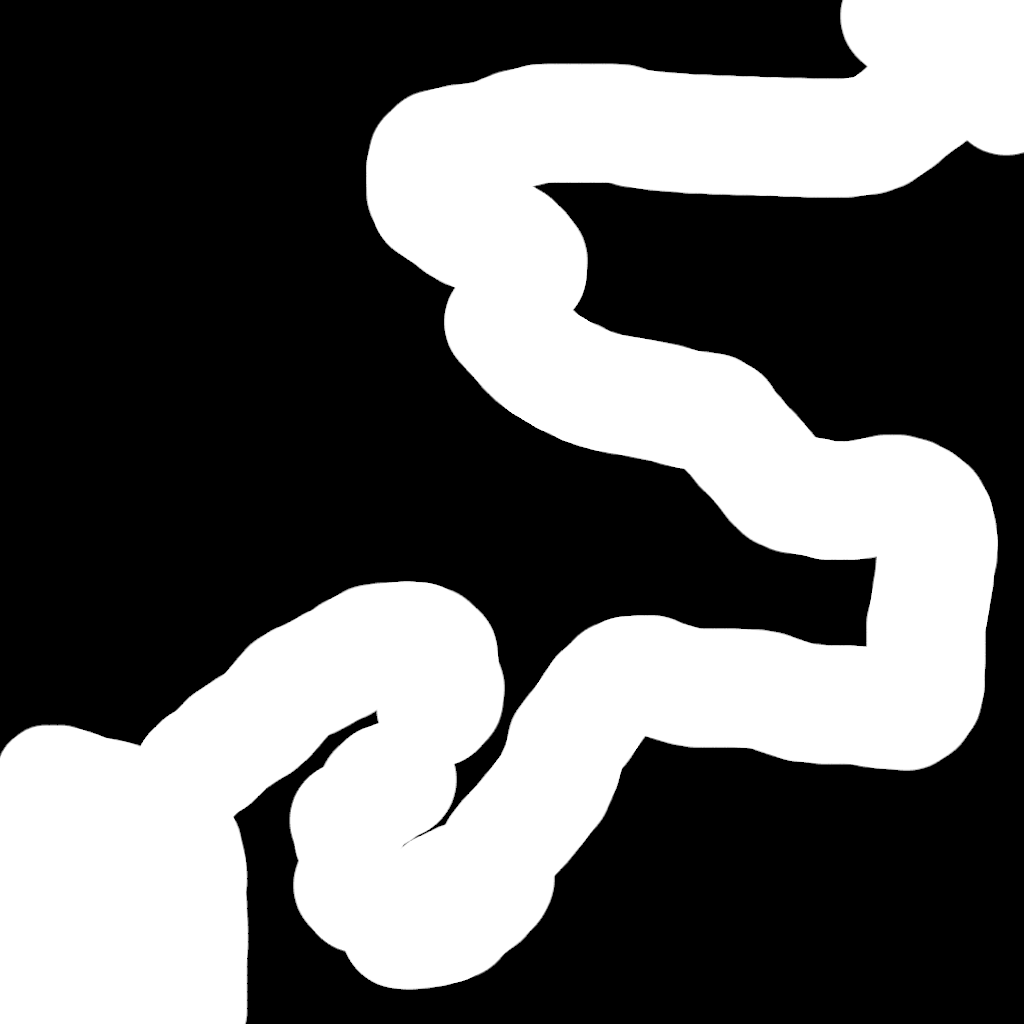
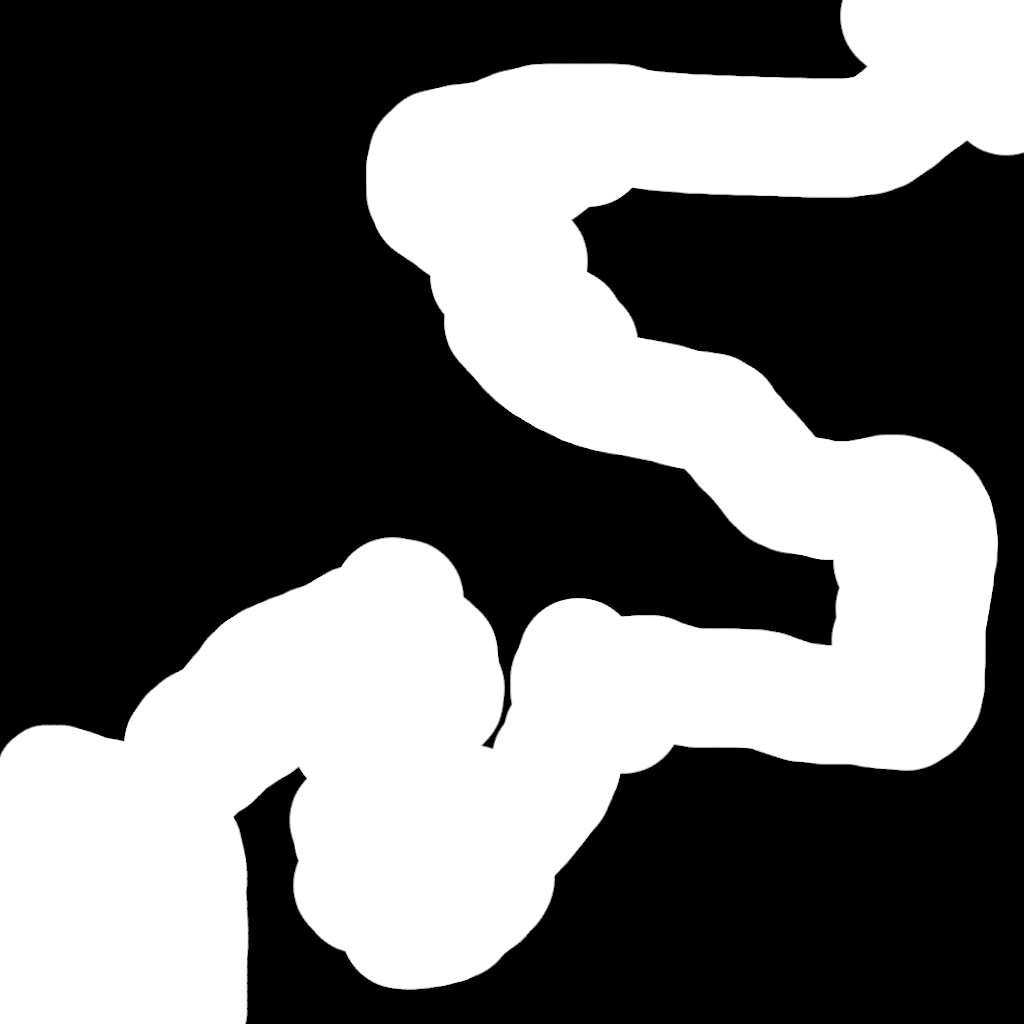
Add files via upload

diff --git a/script.js b/script.js
@@ -54,8 +54,17 @@ let player = {
     movingRight: false,
 };
 
+const WIN_ZONE = {
+    x: 500 - 100,   // left edge of win zone (pixels)
+    y: 0,                   // top edge
+    width: 100,             // width of the zone
+    height: 100,            // height of the zone
+};
+
 let isMoving = false;          // true when a movement key is held (or step queued)
 let animationId = null;
+
+let gameWon = false;
 
 // ─── WALL MAP LOADING ──────────────────────────────────────────────────────
 
@@ -79,6 +88,26 @@ function loadWallMap(img, canvasWidth, canvasHeight) {
 }
 
 // ─── COLLISION DETECTION ──────────────────────────────────────────────────
+
+function isInWinZone(cx, cy, w, h) {
+    const halfW = w / 2;
+    const halfH = h / 2;
+    // Player's bounding box (top‑left, bottom‑right)
+    const left = cx - halfW;
+    const right = cx + halfW;
+    const top = cy - halfH;
+    const bottom = cy + halfH;
+
+    // Win zone edges
+    const winLeft = WIN_ZONE.x;
+    const winRight = WIN_ZONE.x + WIN_ZONE.width;
+    const winTop = WIN_ZONE.y;
+    const winBottom = WIN_ZONE.y + WIN_ZONE.height;
+
+    // Overlap check (AABB collision)
+    return (left < winRight && right > winLeft &&
+            top < winBottom && bottom > winTop);
+}
 
 /**
  * Check if a given pixel (x, y) is a wall.
@@ -208,33 +237,44 @@ function renderLoop() {
  * Update game state: apply movement if possible.
  */
 function update() {
+    // 1. Determine intended movement from held keys/buttons
     let dx = 0, dy = 0;
     if (player.movingUp)    dy -= STEP_SIZE;
     if (player.movingDown)  dy += STEP_SIZE;
     if (player.movingLeft)  dx -= STEP_SIZE;
     if (player.movingRight) dx += STEP_SIZE;
 
-    if (dx === 0 && dy === 0) return; // no movement
+    if (dx === 0 && dy === 0) return;
 
-    const newCx = player.cx + dx;
-    const newCy = player.cy + dy;
-
-    // Clamp center to keep the sprite inside the canvas
-    const halfW = player.width/2;
-    const halfH = player.height/2;
+    // 2. Clamp to canvas edges (so the sprite never goes outside)
+    const halfW = player.width / 2;
+    const halfH = player.height / 2;
     const maxX = canvas.width - halfW;
     const maxY = canvas.height - halfH;
-    const clampedX = Math.min(Math.max(newCx, halfW), maxX);
-    const clampedY = Math.min(Math.max(newCy, halfH), maxY);
 
-    if (!collidesWithWall(clampedX, clampedY, player.width, player.height)) {
-        player.cx = clampedX;
-        player.cy = clampedY;
+    // 3. Try moving horizontally first (X axis)
+    let newCx = player.cx + dx;
+    newCx = Math.min(Math.max(newCx, halfW), maxX);
+    if (!collidesWithWall(newCx, player.cy, player.width, player.height)) {
+        player.cx = newCx;
     } else {
-        // Wall hit – call your placeholder and optionally try sliding
-        onWallHit(clampedX, clampedY, dx, dy);
-        // To allow sliding, you can try moving only X or only Y separately
-        // (similar to earlier sliding logic)
+        // X blocked – call placeholder, but we'll still try Y
+        onWallHit(newCx, player.cy, dx, 0);
+    }
+
+    // 4. Then try moving vertically (Y axis)
+    let newCy = player.cy + dy;
+    newCy = Math.min(Math.max(newCy, halfH), maxY);
+    if (!collidesWithWall(player.cx, newCy, player.width, player.height)) {
+        player.cy = newCy;
+    } else {
+        // Y blocked – call placeholder
+        onWallHit(player.cx, newCy, 0, dy);
+    }
+
+    // 5. (Optional) Win detection
+    if (!gameWon && isInWinZone(player.cx, player.cy, player.width, player.height)) {
+        onWin();
     }
 }
 
@@ -280,13 +320,23 @@ function render() {
  */
 function onWallHit(newX, newY, dx, dy) {
     // ─── INSERT YOUR CUSTOM LOGIC HERE ──────────────────────────────
-    console.log(`Wall hit at (${newX}, ${newY}) moving (${dx}, ${dy})`);
     // Example: flash the canvas border red
     if (canvas) {
         canvas.style.boxShadow = 'inset 0 0 40px rgba(255,0,0,0.6)';
         setTimeout(() => { canvas.style.boxShadow = 'none'; }, 150);
     }
     // ──────────────────────────────────────────────────────────────────
+}
+
+
+
+function onWin() {
+    if (gameWon) return;
+    gameWon = true;
+    // ─── YOUR CUSTOM WIN LOGIC HERE ───
+    console.log('🏆 You reached the exit!');
+    goto(document.querySelector('#winScreen'));
+    // Example: show a message, stop movement, etc.
 }
 
 // ─── STOP / CLEANUP ─────────────────────────────────────────────────────

diff --git a/style.css b/style.css
@@ -77,3 +77,33 @@ img.preload {
     left: 0;
     pointer-events: none;
 }
+
+div.controls {
+    width: 100%;
+    display: grid;
+    grid-template:
+        ". up ." 1fr
+        "left . right" 1fr
+        ". down ." 1fr
+        / 1fr 1fr 1fr;
+
+    & .up {
+        grid-area: up;
+        font-size: 20px;
+    }
+
+    & .down {
+        grid-area: down;
+        font-size: 20px;
+    }
+
+    & .left {
+        grid-area: left;
+        font-size: 30px;
+    }
+
+    & .right {
+        grid-area: right;
+        font-size: 30px;
+    }
+}

diff --git a/index.html b/index.html
@@ -3,6 +3,9 @@
 <head>
     <meta charset="UTF-8">
     <meta name="viewport" content="width=device-width, initial-scale=1.0">
+<meta name="viewport" 
+      content="width=device-width, initial-scale=1.0, maximum-scale=1.0, user-scalable=0"/>
+
     <title>дока 3</title>
     <link rel="stylesheet" href="style.css">
     <script src="script.js" defer></script>
@@ -41,11 +44,15 @@
     <div class="container" id="game" style="display: none;">
         <canvas width="500" height="500"></canvas>
         <div class="controls">
-            <button class="control-button" onmousedown="startMoveUp()" onmouseup="stopMoveUp()" ontouchstart="startMoveUp()" ontouchend="stopMoveUp()">Up</button>
-            <button class="control-button" onmousedown="startMoveDown()" onmouseup="stopMoveDown()" ontouchstart="startMoveDown()" ontouchend="stopMoveDown()">Down</button>
-            <button class="control-button" onmousedown="startMoveLeft()" onmouseup="stopMoveLeft()" ontouchstart="startMoveLeft()" ontouchend="stopMoveLeft()">Left</button>
-            <button class="control-button" onmousedown="startMoveRight()" onmouseup="stopMoveRight()" ontouchstart="startMoveRight()" ontouchend="stopMoveRight()">Right</button>
+            <button class="control-button up" onmousedown="startMoveUp()" onmouseup="stopMoveUp()" ontouchstart="startMoveUp()" ontouchend="stopMoveUp()">⟰</button>
+            <button class="control-button down" onmousedown="startMoveDown()" onmouseup="stopMoveDown()" ontouchstart="startMoveDown()" ontouchend="stopMoveDown()">⟱</button>
+            <button class="control-button left" onmousedown="startMoveLeft()" onmouseup="stopMoveLeft()" ontouchstart="startMoveLeft()" ontouchend="stopMoveLeft()">⭅</button>
+            <button class="control-button right" onmousedown="startMoveRight()" onmouseup="stopMoveRight()" ontouchstart="startMoveRight()" ontouchend="stopMoveRight()">⭆</button>
         </div>
+    </div>
+
+    <div class="container" id="winScreen" style="display: none;">
+        <img src="win.jpg">
     </div>
 
     <img class="loading" src="dotalogo.jpg">